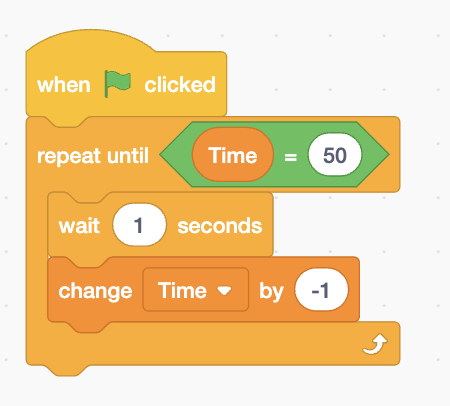
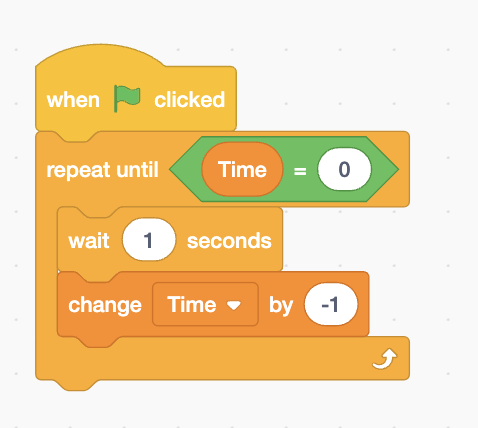
Instructions mouse sky

diff --git a/scratch/catChasingMouse/README.md b/scratch/catChasingMouse/README.md
@@ -71,3 +71,11 @@ On the cat:
 On the background:
 
 ![](./instructions/make_time_decrease.png)
+
+# Stop them mouse when time is 0
+
+![](./instructions/when_time_is_0_dont_move_the_mouse_anymore.png)
+
+# Don't make the mouse walk in the sky
+
+![](./instructions/dont_make_the_mouse_walk_in_the_sky.png)
